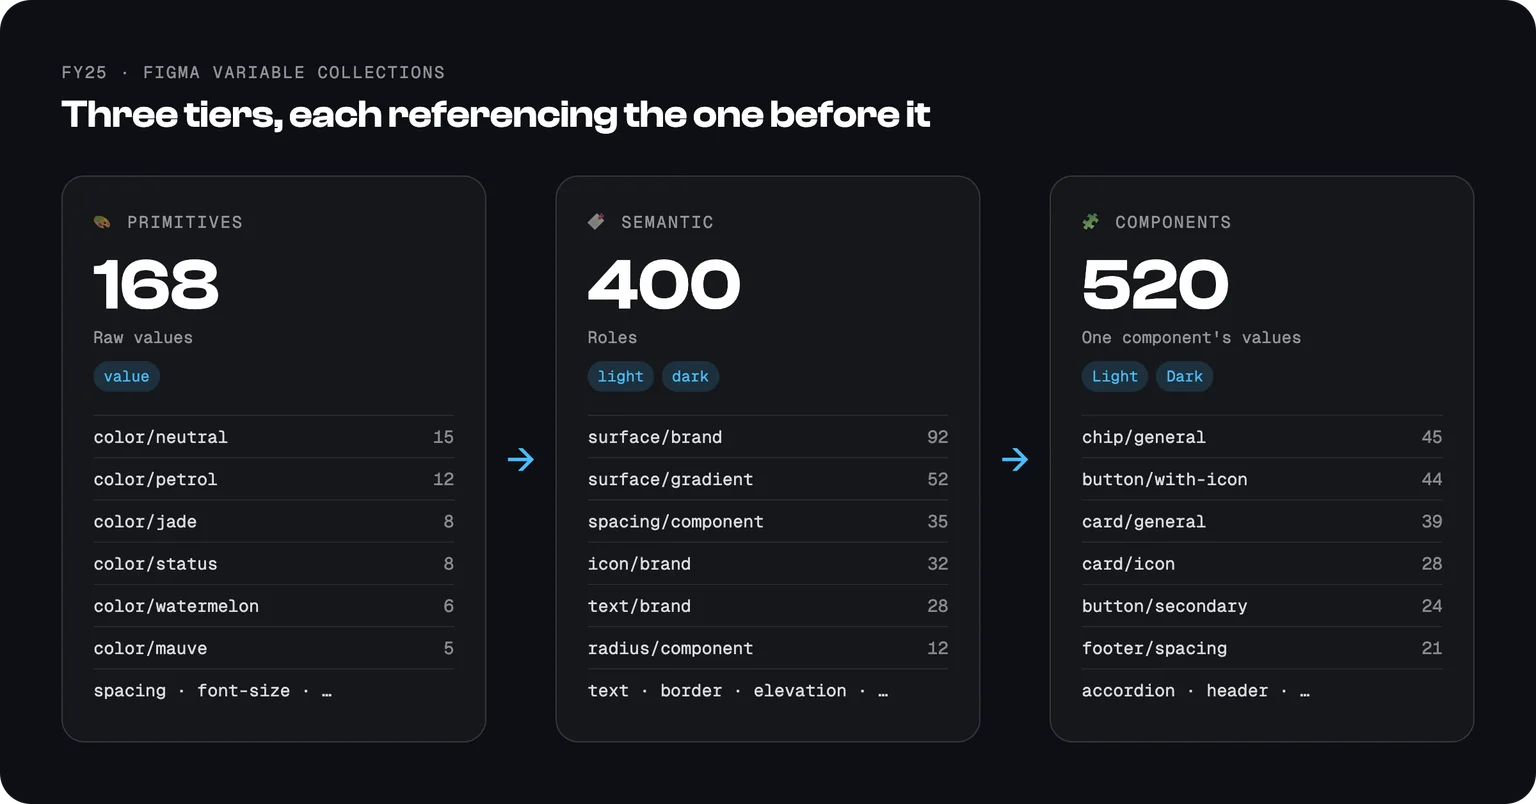
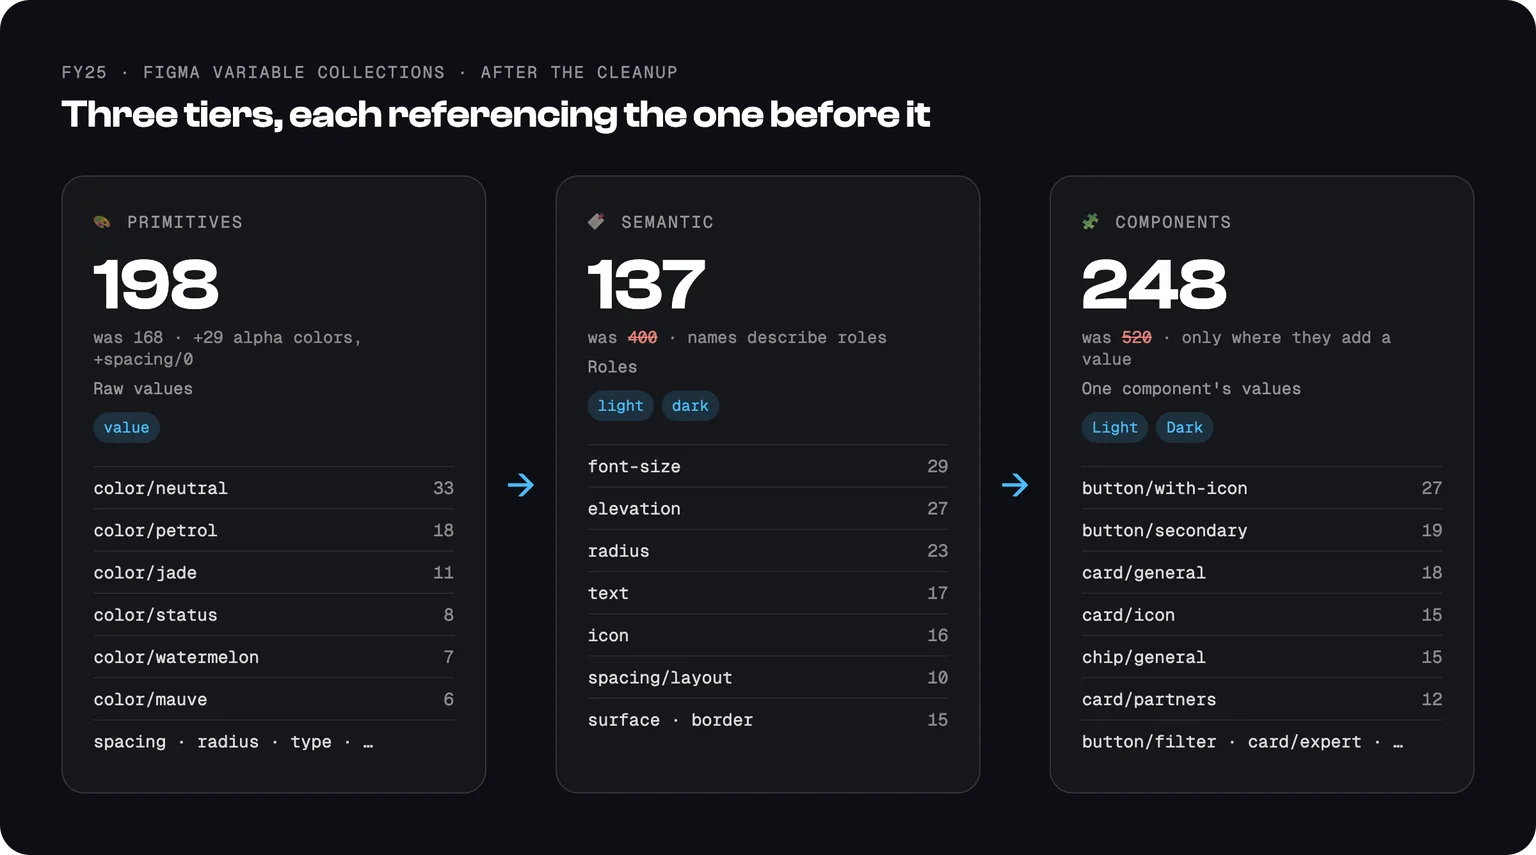
FY25 case: document the token cleanup
New counts (198 / 137 / 248), a cleanup section, recalculated coverage,
and updated collections, chip and architecture figures.

diff --git a/app/data/projects.ts b/app/data/projects.ts
@@ -23,12 +23,12 @@ export const projects: Project[] = [
         },
         {
           label: "What I did",
-          body: "Rebuilt it as three tiers of tokens: 168 primitives, 400 semantic and 520 component tokens. A brand change is made once and reaches every component.",
+          body: "Rebuilt it as three tiers of tokens, then audited and cut it down: 198 primitives, 137 semantic and 248 component tokens. A brand change is made once and reaches every component.",
           visual: { type: "image", src: "/home/fy25/04-variable-collections.webp", alt: "The three FY25 variable collections with their counts" },
         },
         {
           label: "Components",
-          body: "Rebuilt the 42 components already on epicor.com on those tokens: 1,124 variants, with about 95% of their colors bound to variables.",
+          body: "Rebuilt the 42 components already on epicor.com on those tokens: 1,124 variants, with about 95% of their colors bound to variables or styles.",
           visual: { type: "image", src: "/case-studies/fy25/10-components.webp", alt: "A sample of FY25 components in their default state", tight: true },
         },
         {

diff --git a/CLAUDE.md b/CLAUDE.md
@@ -23,7 +23,7 @@ that audience: product decisions first, then how they were built.
 ## Case studies
 
 - `projects.fy25-design-system.mdx` — Epicor FY25 design system (lead case): 3-tier tokens
-  (168 primitive / 400 semantic / 520 component, light + dark), 42 components. Figma files are
+  (198 primitive / 137 semantic / 248 component after the cleanup; were 168 / 400 / 520; light + dark), 42 components. Figma files are
   on Max's Epicor account (FY25-DESIGN-SYSTEM, FY23-Components). The 54-token "Blocks" collection is
   intentionally left out of the case (it is just component combinations).
 - `projects.web-menu-redesign.mdx` — Pide Directo.
